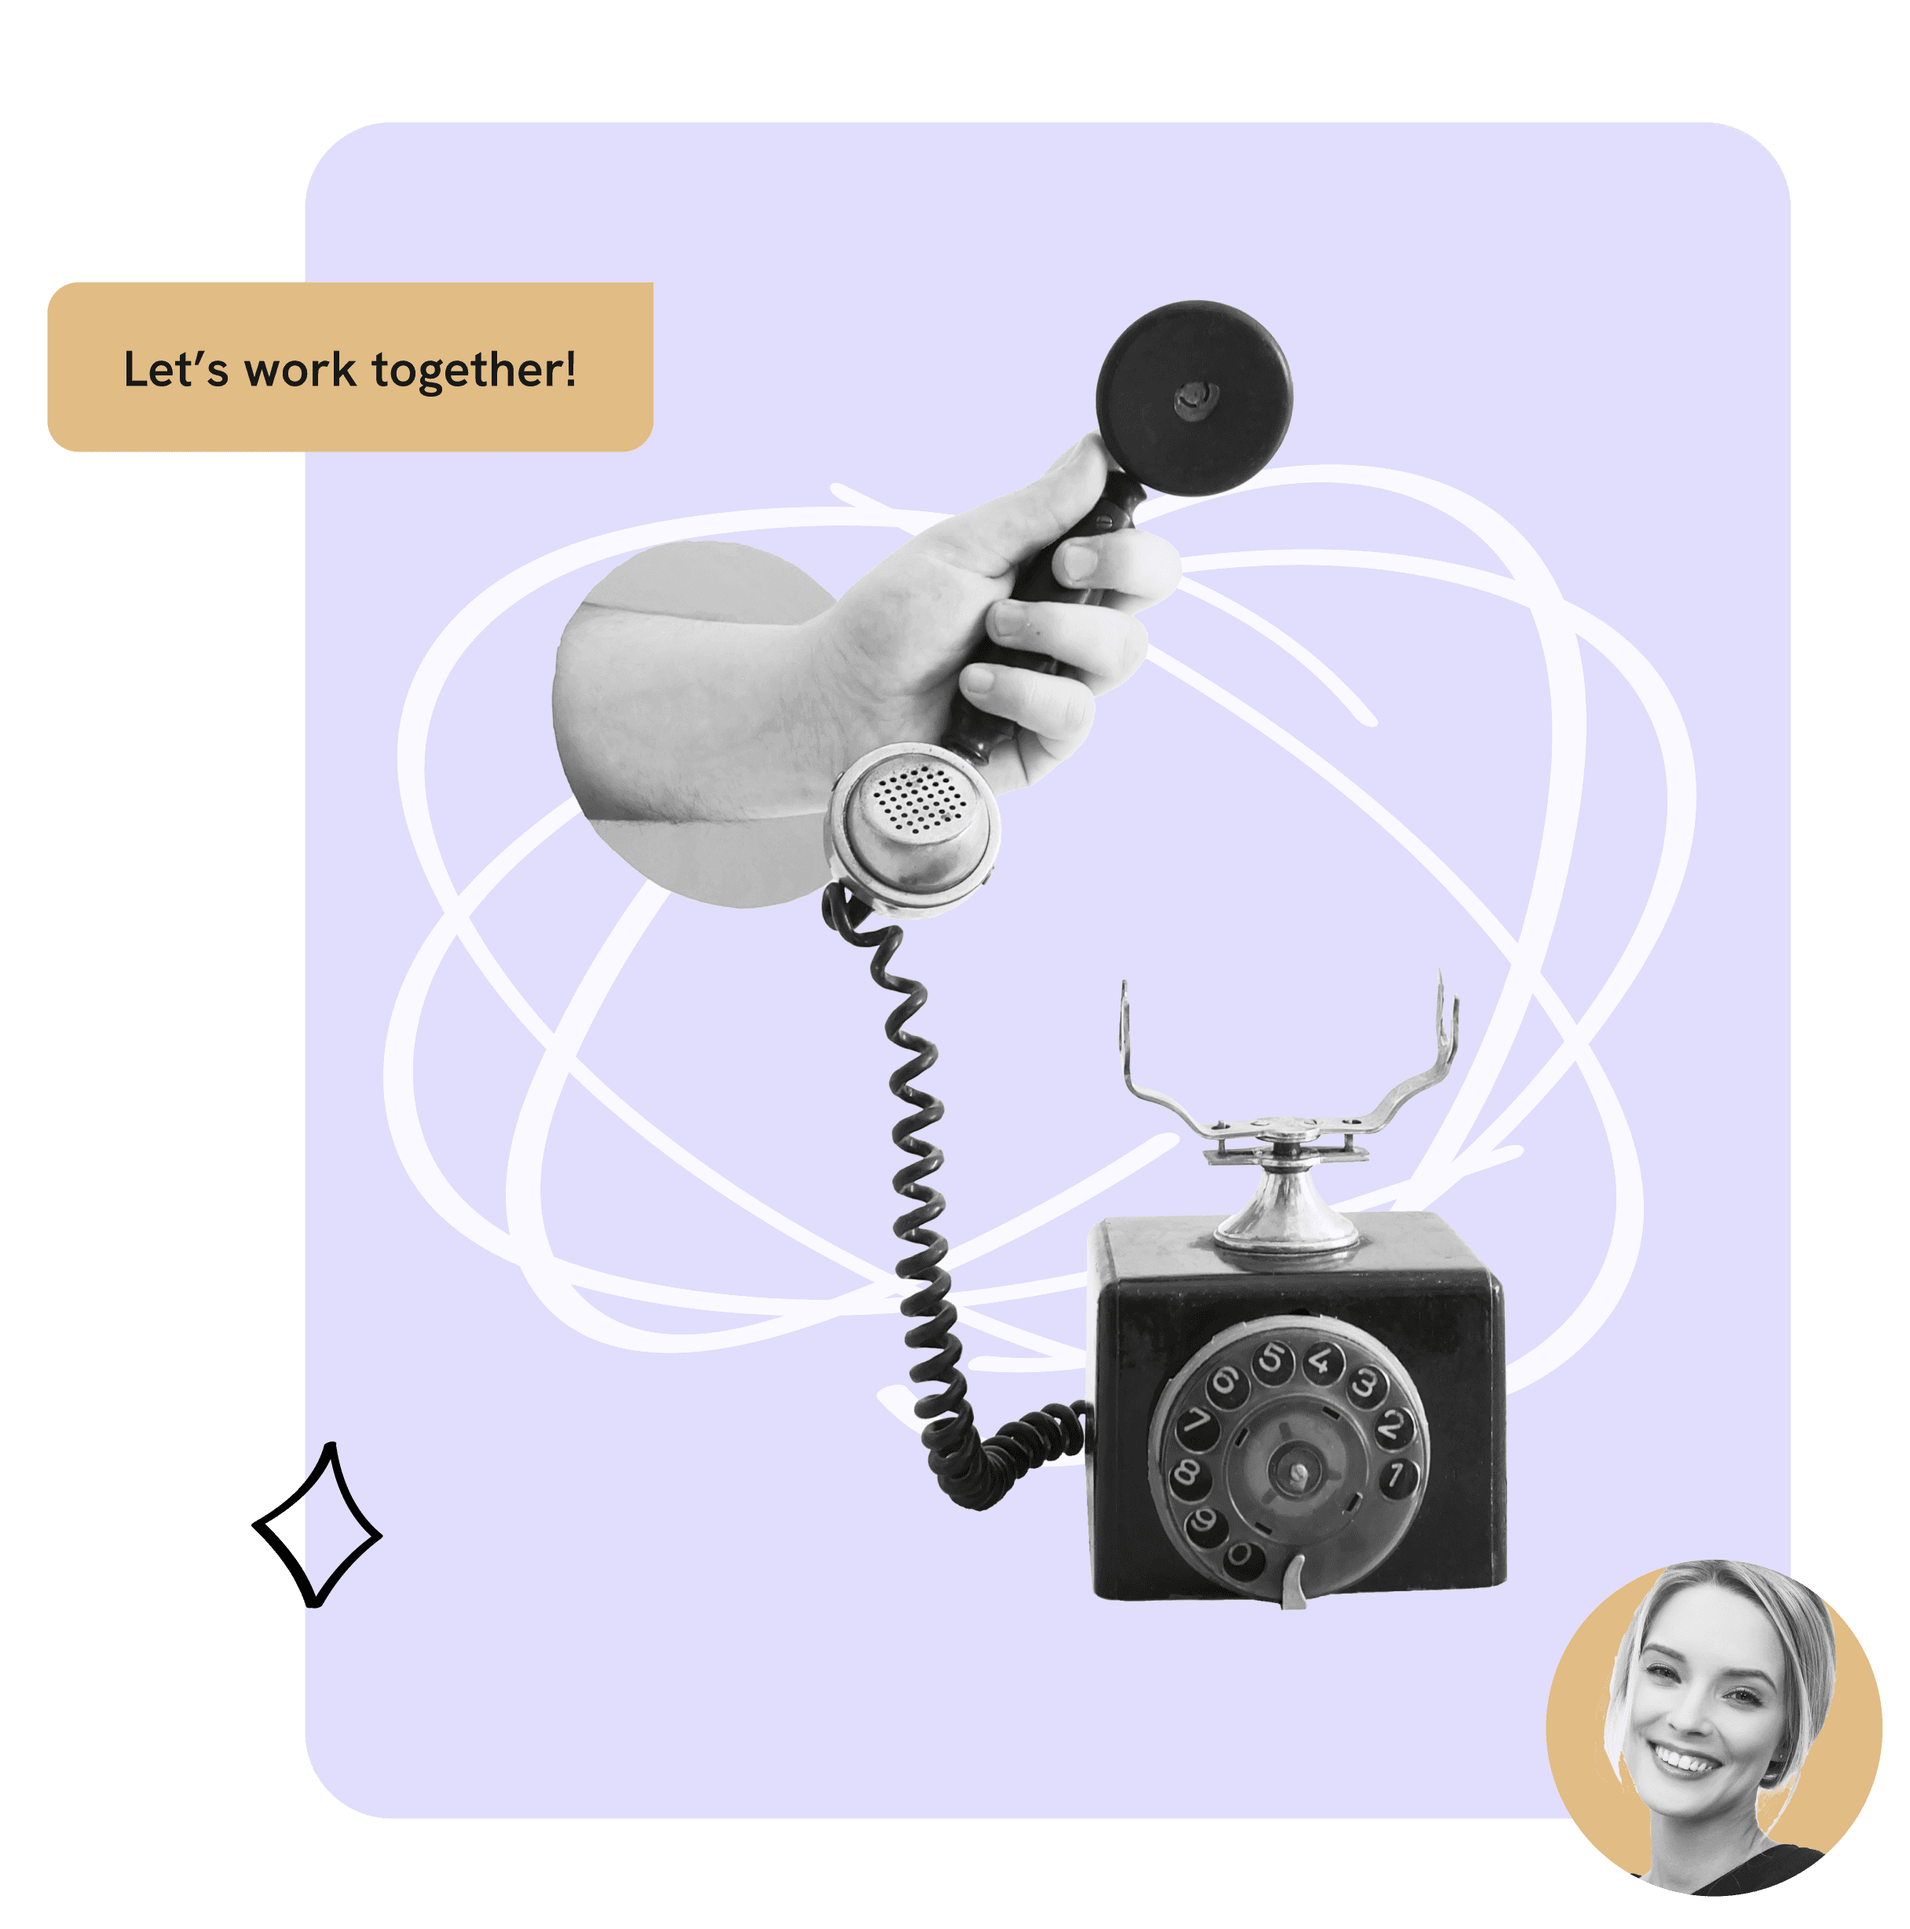
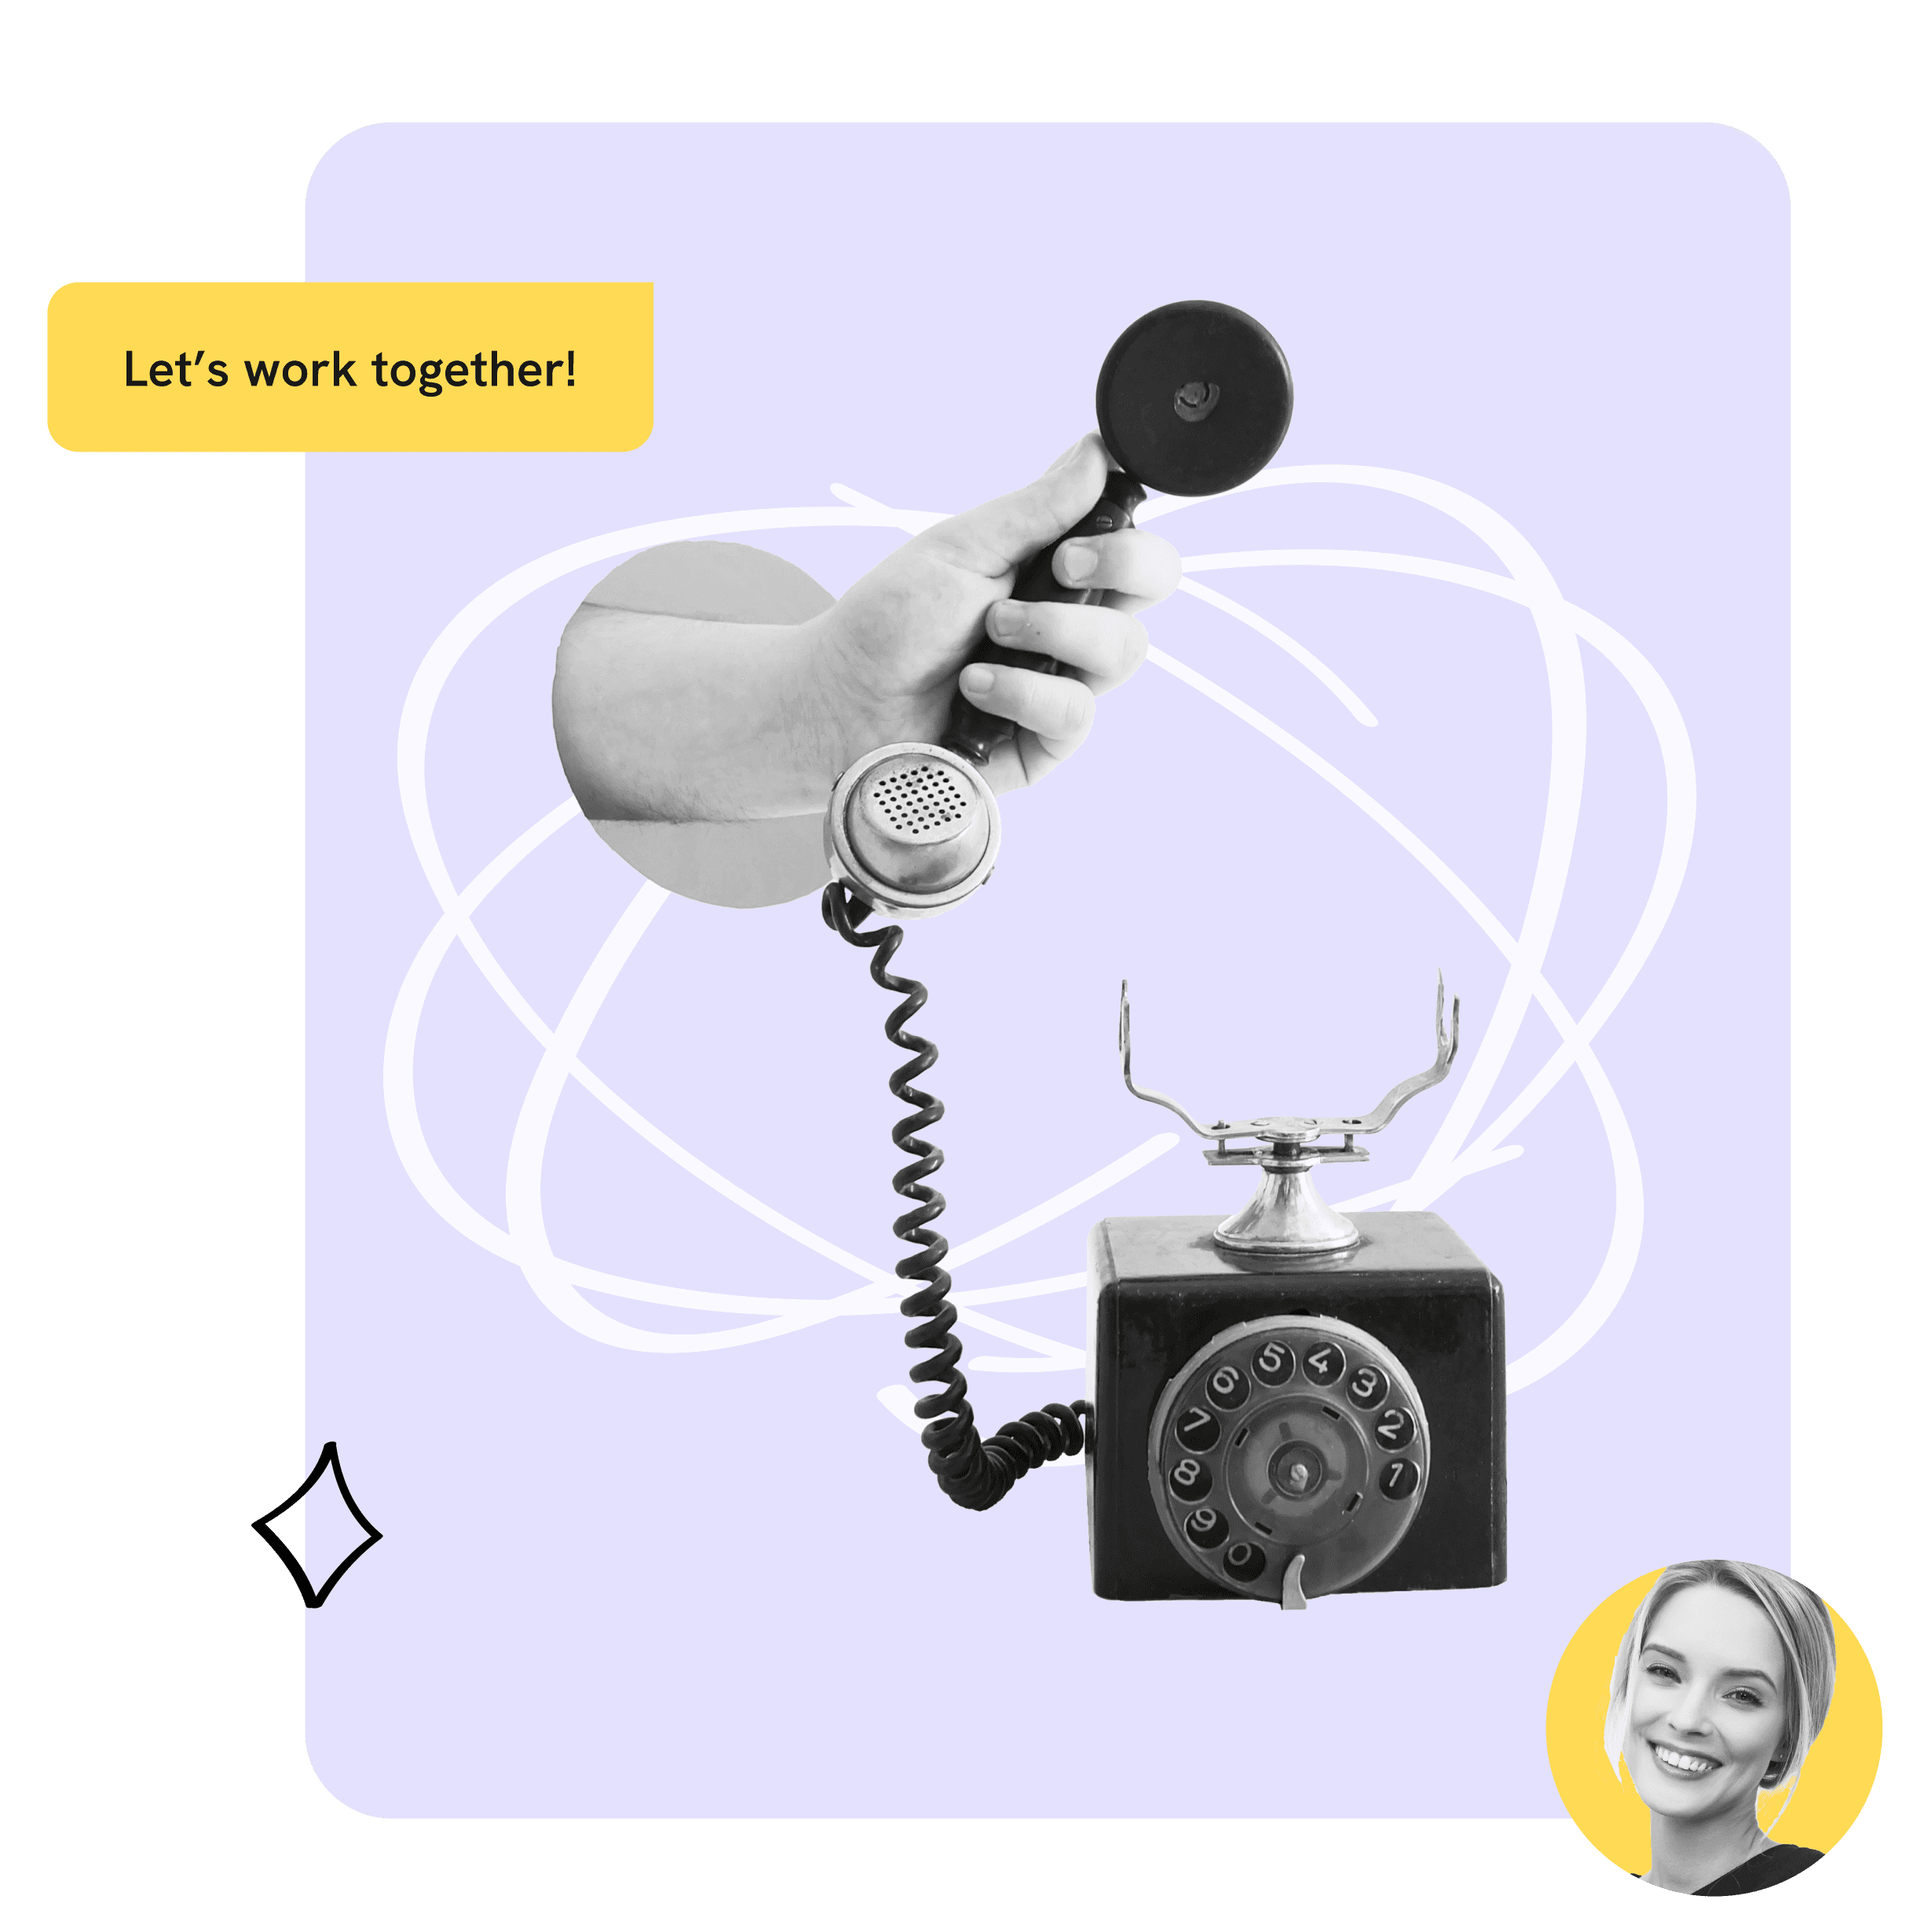
Restore original contact section graphic colours

Changed region(s): [[0.0, 0.1238, 0.3438, 0.2476], [0.9062, 0.8355, 1.0, 0.9593], [0.8125, 0.8046, 0.875, 0.9902]]

diff --git a/index.html b/index.html
@@ -686,7 +686,7 @@
           </div>
 
           <div class="contact-right scroll-reveal framer-u1risr" data-framer-name="pic-contact: hand holding a phone, small avatar of a woman, a scribble in the background" data-anim="contact-img" data-delay="0.12">
-            <img src="assets/images/contact-phone.png?v=3" alt="Hand holding a phone with a contact avatar" width="608" height="614" loading="lazy" />
+            <img src="assets/images/contact-phone.png?v=4" alt="Hand holding a phone with a contact avatar" width="608" height="614" loading="lazy" />
           </div>
         </div>
       </section>
